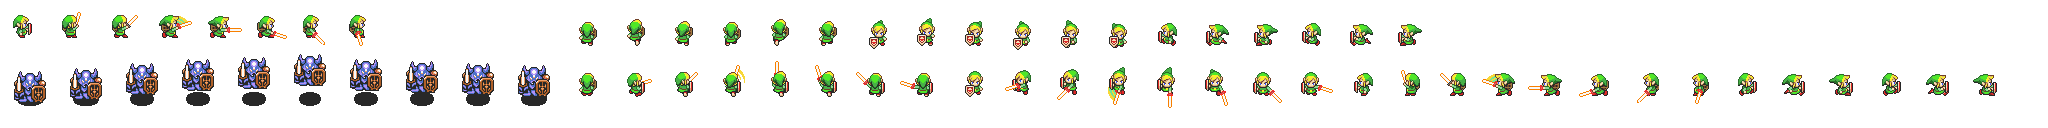
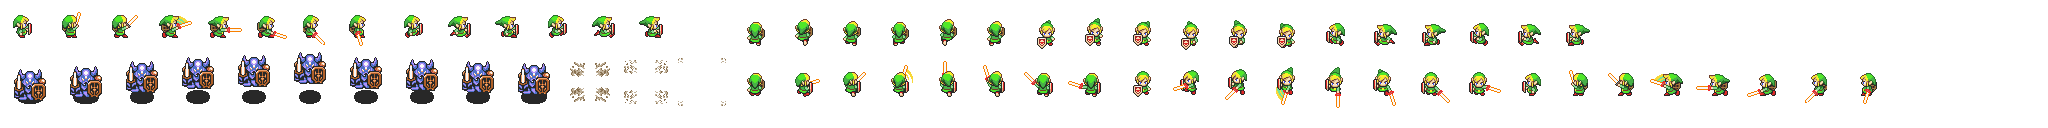
add health bars

Changed region(s): [[0.0, 0.4062, 1.0, 0.8438], [0.1875, 0.125, 0.7812, 0.375]]

diff --git a/core/src/com/mygdx/mygame/Sprites/Enemies/Armos.java b/core/src/com/mygdx/mygame/Sprites/Enemies/Armos.java
@@ -1,6 +1,7 @@
 package com.mygdx.mygame.Sprites.Enemies;
 
 import com.badlogic.gdx.graphics.g2d.Animation;
+import com.badlogic.gdx.graphics.g2d.Batch;
 import com.badlogic.gdx.graphics.g2d.TextureRegion;
 
 import com.badlogic.gdx.math.Vector2;
@@ -18,24 +19,47 @@ import com.mygdx.mygame.Screens.PlayScreen;
 public class Armos extends Enemy{
     private float stateTime;
     private Animation<TextureRegion> walkAnimation;
+    private Animation<TextureRegion> deathAnimation;
     private Array<TextureRegion> frames;
+    private boolean setToDestroy;
+    private boolean destroyed;
+    private float deathTimer;
     public Armos(PlayScreen screen, float x, float y) {
         super(screen, x, y);
         frames = new Array<TextureRegion>();
         for(int i = 0; i < 10; i++)
             frames.add(new TextureRegion(screen.getAtlas().findRegion("armos"), i*56, 0, 56, 56));
         walkAnimation= new Animation<TextureRegion>(0.1f, frames);
+        frames.clear();
+        for(int i = 10; i < 13; i++)
+            frames.add(new TextureRegion(screen.getAtlas().findRegion("armos"), i*56, 0, 56, 56));
+        deathAnimation= new Animation<TextureRegion>(0.2f, frames);
         stateTime = 0;
+
         setBounds(getX(), getY(), 56/MyGame.PPM, 56/MyGame.PPM);
+        setToDestroy = false;
+        destroyed = false;
+        deathTimer = -1/60f;
     }
 
     @Override
     public void update(float dt){
         stateTime +=dt;
-        b2body.setLinearVelocity(velocity);
-        setPosition(b2body.getPosition().x - getWidth() / 2, b2body.getPosition().y - getHeight() / 2);
-        setRegion(walkAnimation.getKeyFrame(stateTime, true));
+        if(setToDestroy && !destroyed&&deathTimer > 0.4f){
+            world.destroyBody(b2body);
+            destroyed = true;
+            stateTime = 0;
+        }
+        if(setToDestroy && !destroyed){
+            deathTimer+=dt;
+            setRegion(deathAnimation.getKeyFrame(deathTimer, false));
+        }
+        else if(!setToDestroy) {
 
+            b2body.setLinearVelocity(velocity);
+            setPosition(b2body.getPosition().x - getWidth() / 2, b2body.getPosition().y - getHeight() / 2);
+            setRegion(walkAnimation.getKeyFrame(stateTime, true));
+        }
     }
     @Override
     protected void defineEnemy() {
@@ -58,5 +82,17 @@ public class Armos extends Enemy{
 
         fdef.shape = shape;
         b2body.createFixture(fdef).setUserData(this);
+    }
+    public void draw(Batch batch){
+        if(!destroyed || stateTime < 1)
+            super.draw(batch);
+    }
+    public void getHit(int damage){
+        if(health > damage)
+            health-=damage;
+        else{
+            health = 0;
+            setToDestroy = true;
+        }
     }
 }

diff --git a/core/src/com/mygdx/mygame/Scenes/Hud.java b/core/src/com/mygdx/mygame/Scenes/Hud.java
@@ -22,10 +22,11 @@ public class Hud implements Disposable{
 
     private Integer worldTimer;
     private  float timeCount;
-    private Integer score;
+    private Integer health;
+    private Integer maxHealth;
 
     Label countDownLabel;
-    Label scoreLabel;
+    Label healthLabel;
     Label timeLabel;
     Label levelLabel;
     Label mapLabel;
@@ -34,7 +35,8 @@ public class Hud implements Disposable{
     public Hud(SpriteBatch sb){
         worldTimer = 60;
         timeCount = 0;
-        score = 0;
+        health = 200;
+        maxHealth = 200;
 
         viewport = new FitViewport(MyGame.V_WIDTH, MyGame.V_HEIGHT, new OrthographicCamera());
         stage = new Stage(viewport, sb);
@@ -43,7 +45,7 @@ public class Hud implements Disposable{
         table.top();
         table.setFillParent(true);
         countDownLabel = new Label(String.format("%02d", worldTimer), new Label.LabelStyle(new BitmapFont(), Color.WHITE));
-        scoreLabel = new Label(String.format("%04d", score), new Label.LabelStyle(new BitmapFont(), Color.WHITE));
+        healthLabel = new Label(String.format("%03d/%03d", health, maxHealth), new Label.LabelStyle(new BitmapFont(), Color.WHITE));
         timeLabel = new Label("TIME", new Label.LabelStyle(new BitmapFont(), Color.WHITE));
         levelLabel = new Label("1", new Label.LabelStyle(new BitmapFont(), Color.WHITE));
         mapLabel = new Label("MAP", new Label.LabelStyle(new BitmapFont(), Color.WHITE));
@@ -52,7 +54,7 @@ public class Hud implements Disposable{
         table.add(mapLabel).expandX();
         table.add(timeLabel).expandX();
         table.row();
-        table.add(scoreLabel).expandX();
+        table.add(healthLabel).expandX();
         table.add(levelLabel).expandX();
         table.add(countDownLabel).expandX();
         stage.addActor(table);
@@ -62,5 +64,13 @@ public class Hud implements Disposable{
     @Override
     public void dispose() {
         stage.dispose();
+    }
+    public void setMaxHealth(int maxHealth){
+        this.maxHealth = maxHealth;
+        healthLabel.setText(String.format("%03d/%03d", health, maxHealth));
+    }
+    public void setHealth(int health){
+        this.health = health;
+        healthLabel.setText(String.format("%03d/%03d", health, maxHealth));
     }
 }

diff --git a/core/src/com/mygdx/mygame/Sprites/Enemies/Enemy.java b/core/src/com/mygdx/mygame/Sprites/Enemies/Enemy.java
@@ -1,9 +1,14 @@
 package com.mygdx.mygame.Sprites.Enemies;
 
+import com.badlogic.gdx.Gdx;
+import com.badlogic.gdx.graphics.Color;
+import com.badlogic.gdx.graphics.Texture;
+import com.badlogic.gdx.graphics.g2d.Batch;
 import com.badlogic.gdx.graphics.g2d.Sprite;
 import com.badlogic.gdx.math.Vector2;
 import com.badlogic.gdx.physics.box2d.Body;
 import com.badlogic.gdx.physics.box2d.World;
+import com.mygdx.mygame.MyGame;
 import com.mygdx.mygame.Screens.PlayScreen;
 
 /**
@@ -15,12 +20,18 @@ public abstract class Enemy extends Sprite{
     protected PlayScreen screen;
     public Body b2body;
     public Vector2 velocity;
+    protected int maxHealth;
+    protected int health;
+    private Texture blank;
     public Enemy(PlayScreen screen, float x, float y){
         this.world = screen.getWorld();
         this.screen = screen;
         setPosition(x, y);
         defineEnemy();
         velocity = new Vector2(0, -1);
+        maxHealth = 100;
+        health = 100;
+        blank = new Texture("blank.png");
     }
     public abstract void update(float dt);
     protected abstract void defineEnemy();
@@ -29,5 +40,15 @@ public abstract class Enemy extends Sprite{
             velocity.x = -velocity.x;
         if(y)
             velocity.y = -velocity.y;
+    }
+    public abstract void getHit(int damage);
+    public int getHealth(){
+        return health;
+    }
+    public void draw(Batch batch){
+        super.draw(batch);
+        batch.setColor(Color.RED);
+        float healthWidth = (health*2*this.getWidth()/3)/ (maxHealth);
+        batch.draw(blank, this.getX() + this.getWidth()/6, this.getY() + this.getHeight(), healthWidth, 3/ MyGame.PPM);
     }
 }

diff --git a/core/src/com/mygdx/mygame/Sprites/Link.java b/core/src/com/mygdx/mygame/Sprites/Link.java
@@ -2,7 +2,10 @@ package com.mygdx.mygame.Sprites;
 
 import com.badlogic.gdx.Gdx;
 import com.badlogic.gdx.Input;
+import com.badlogic.gdx.graphics.Color;
+import com.badlogic.gdx.graphics.Texture;
 import com.badlogic.gdx.graphics.g2d.Animation;
+import com.badlogic.gdx.graphics.g2d.Batch;
 import com.badlogic.gdx.graphics.g2d.Sprite;
 import com.badlogic.gdx.graphics.g2d.TextureRegion;
 
@@ -48,6 +51,9 @@ public class Link extends Sprite{
     private boolean walkingEast;
     private PlayScreen screen;
     private Sword sword;
+    private int health;
+    private int maxHealth;
+    private Texture blank;
     public Link(PlayScreen screen){
         this.screen = screen;
         this.world = screen.getWorld();
@@ -112,7 +118,9 @@ public class Link extends Sprite{
         currentRegion = linkStandNorth;
         setBounds(0, 0, 48 / MyGame.PPM, 48 / MyGame.PPM);
         setRegion(linkStandNorth);
-
+        maxHealth = 200;
+        health = 200;
+        blank = new Texture("blank.png");
 
     }
     public void update(float dt){
@@ -283,6 +291,22 @@ public class Link extends Sprite{
     public void slash(int direction){
         sword = new Sword(screen, b2body.getPosition().x, b2body.getPosition().y, direction);
 
+    }
+    public void getHit(int damage){
+        if(health > damage)
+            health-=damage;
+        else{
+            health = 0;
+        }
+    }
+    public int getHealth(){
+        return health;
+    }
+    public int getMaxHealth(){
+        return maxHealth;
+    }
+    public void draw(Batch batch){
+            super.draw(batch);
     }
 
 

diff --git a/core/src/com/mygdx/mygame/Tools/WorldContactListener.java b/core/src/com/mygdx/mygame/Tools/WorldContactListener.java
@@ -47,6 +47,23 @@ public class WorldContactListener implements ContactListener{
                 else {
                     ((Enemy) fixB.getUserData()).reverseVelocity(false, true);
                 }
+                break;
+            case MyGame.SWORD_BIT | MyGame.ENEMY_BIT:
+                if(fixA.getFilterData().categoryBits == MyGame.SWORD_BIT) {
+                    ((Enemy) fixB.getUserData()).getHit(30);
+                }
+                else {
+                    ((Enemy) fixA.getUserData()).getHit(30);
+                }
+                break;
+            case MyGame.LINK_BIT | MyGame.ENEMY_BIT:
+                if(fixA.getFilterData().categoryBits == MyGame.LINK_BIT) {
+                    ((Link) fixA.getUserData()).getHit(30);
+                }
+                else {
+                    ((Link) fixB.getUserData()).getHit(30);
+                }
+                break;
 
         }
 

diff --git a/core/src/com/mygdx/mygame/Screens/PlayScreen.java b/core/src/com/mygdx/mygame/Screens/PlayScreen.java
@@ -58,6 +58,7 @@ public class PlayScreen implements Screen {
     private Link player;
 
 
+
     public PlayScreen(MyGame game) {
         atlas = new TextureAtlas("link_and_enemies.atlas");
 
@@ -120,12 +121,15 @@ public class PlayScreen implements Screen {
         game.batch.setProjectionMatrix(gameCam.combined);
         game.batch.begin();
 
-        for(Enemy enemy : creator.getKnights())
+        for(Enemy enemy : creator.getKnights()) {
             enemy.draw(game.batch);
+        }
+
         player.draw(game.batch);
         game.batch.end();
 
         game.batch.setProjectionMatrix(hud.stage.getCamera().combined);
+        hud.setHealth(player.getHealth());
         hud.stage.draw();
     }
 
